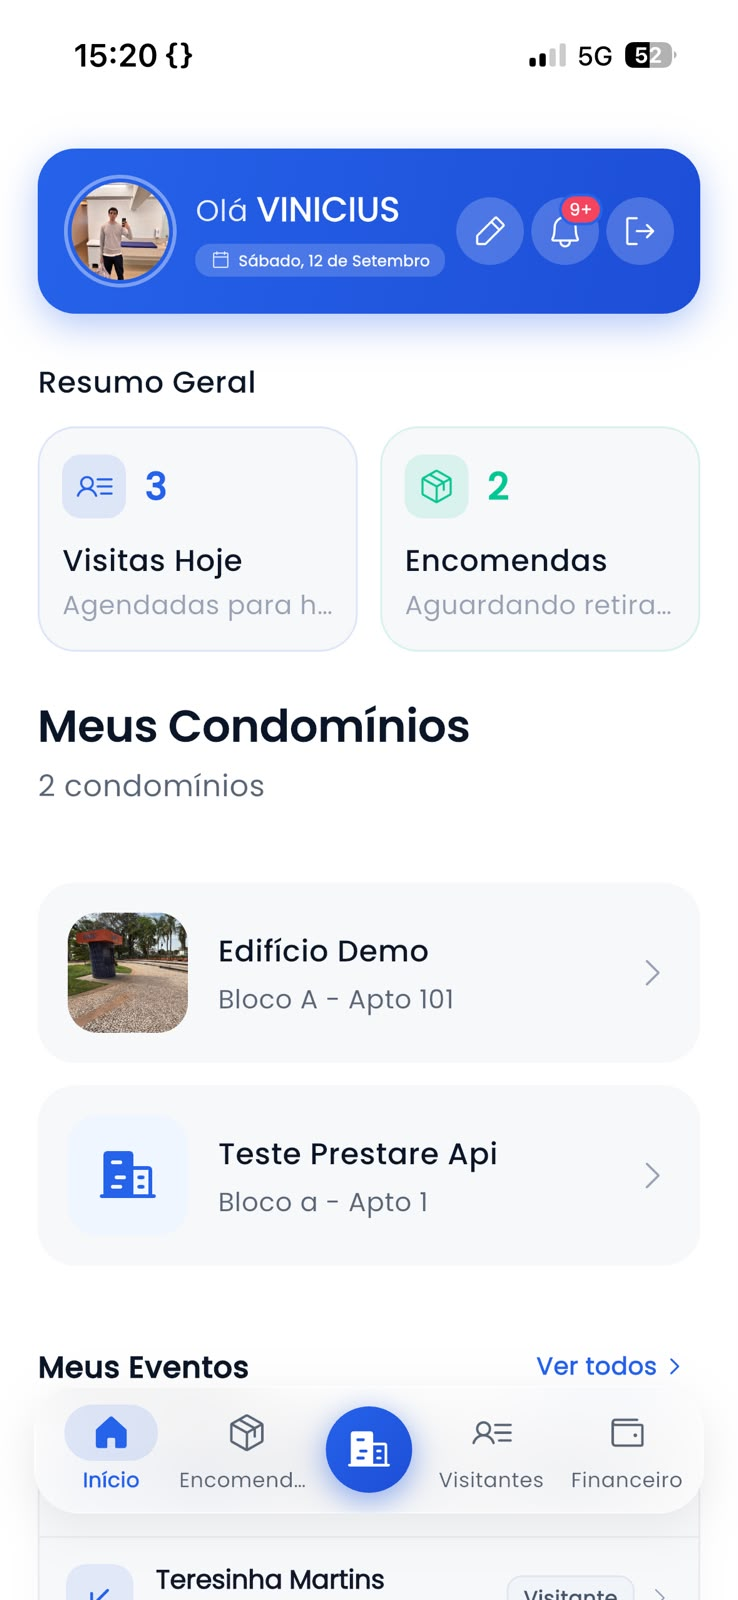
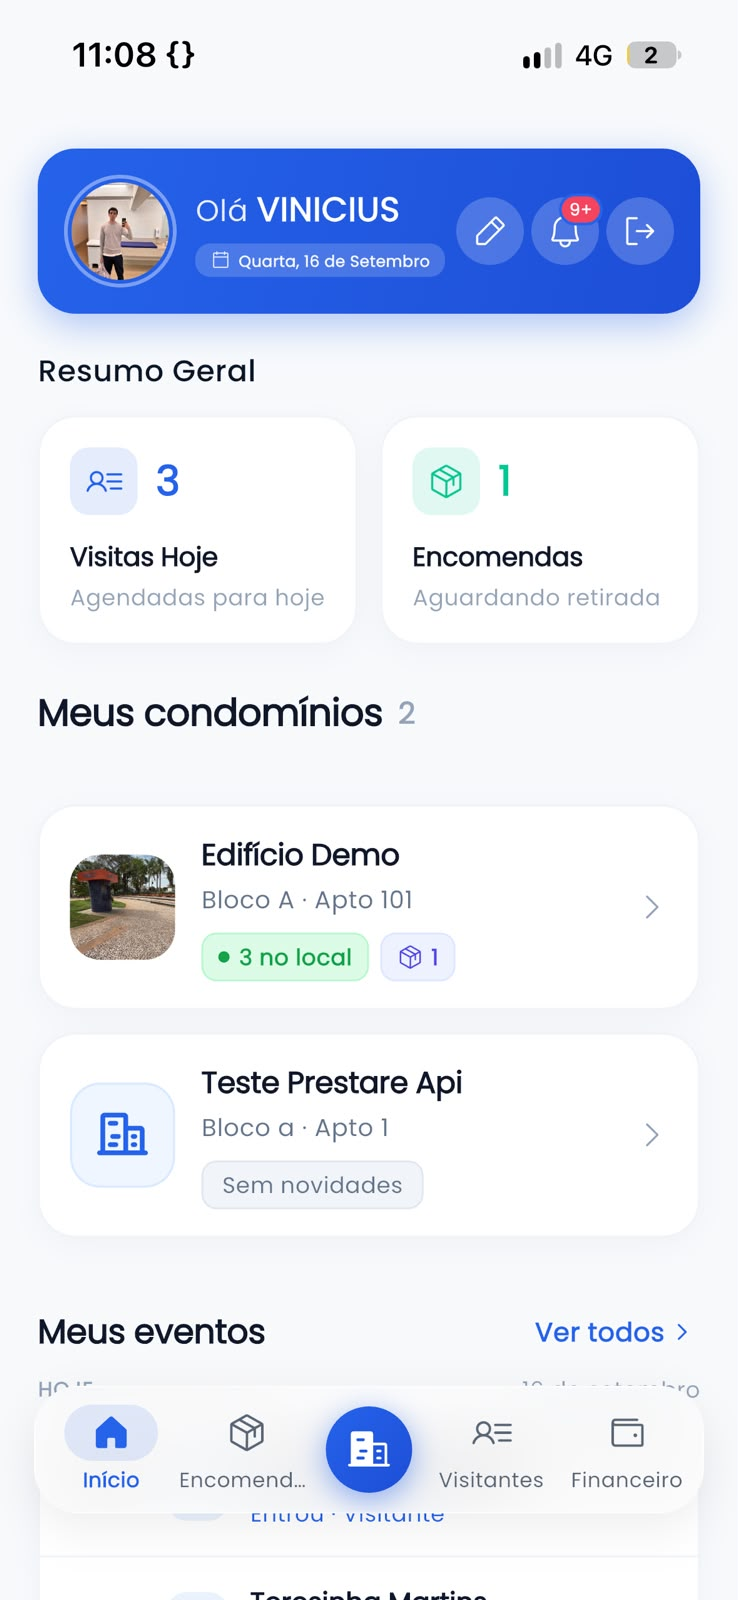
feat(sobre): atualiza os prints de Inicio e de Visitantes do app
Duas telas do morador trocadas pelas versoes atuais do app. Como os nomes de
arquivo se mantiveram, o hero, a fileira do morador e o modal passaram a
mostrar as novas sem nenhuma mudanca de marcacao. Mesmas dimensoes de antes
(738x1600), entao nada se deslocou.

As descricoes do modal foram ajustadas porque descreviam as telas antigas:

- Inicio: os cartoes de condominio agora trazem a situacao de cada um ("3 no
  local", "Sem novidades"), o que virou um dos destaques
- Visitantes: sumiu "Busca por nome ou documento" (o campo hoje so diz
  "Buscar") e sumiu "PIN de acesso por visitante" (a tela mostra "Sem PIN").
  Entrou "Encerrar a visita pelo app", que a tela nova oferece e a antiga nao
  tinha

diff --git a/click-cond-web/apps/portaria-web/public/sobre/index.html b/click-cond-web/apps/portaria-web/public/sobre/index.html
@@ -721,8 +721,8 @@ class Component extends DCLogic {
   TELAS = {
     "app-home": {
       src: "/sobre/assets/app-home.jpeg", tipo: "App do morador", retrato: true, titulo: "Início",
-      texto: "A primeira tela do morador: saudação, resumo do dia com visitas agendadas e encomendas aguardando retirada, e a lista dos condomínios em que ele tem unidade. Abaixo, os eventos recentes de entrada e saída da própria unidade.",
-      itens: ["Resumo geral do dia", "Troca entre condomínios", "Eventos recentes da unidade"]
+      texto: "A primeira tela do morador: saudação, resumo do dia com visitas agendadas e encomendas aguardando retirada, e a lista dos condomínios em que ele tem unidade — cada um com o que está acontecendo lá agora. Abaixo, os eventos recentes de entrada e saída da própria unidade.",
+      itens: ["Resumo geral do dia", "Situação de cada condomínio à vista", "Eventos recentes da unidade"]
     },
     "app-ia": {
       src: "/sobre/assets/app-ia.png", tipo: "App do morador", retrato: true, titulo: "Prestare IA",
@@ -731,8 +731,8 @@ class Component extends DCLogic {
     },
     "app-visitantes": {
       src: "/sobre/assets/app-visitantes.jpeg", tipo: "App do morador", retrato: true, titulo: "Visitantes e prestadores",
-      texto: "O morador cadastra quem vai visitar antes de a pessoa chegar, gera o PIN de acesso e acompanha o status. Na portaria, é só confirmar — sem ligação e sem fila no portão.",
-      itens: ["Busca por nome ou documento", "PIN de acesso por visitante", "No local e Cadastrados separados"]
+      texto: "O morador cadastra quem vai visitar antes de a pessoa chegar e acompanha o status: quem está no local, há quanto tempo entrou e se tem PIN. A visita é encerrada pelo próprio app, sem ligar para a portaria.",
+      itens: ["Visitantes e prestadores em abas", "No local e Cadastrados separados", "Encerrar a visita pelo app"]
     },
     "app-encomendas": {
       src: "/sobre/assets/app-encomendas.jpeg", tipo: "App do morador", retrato: true, titulo: "Minhas encomendas",
